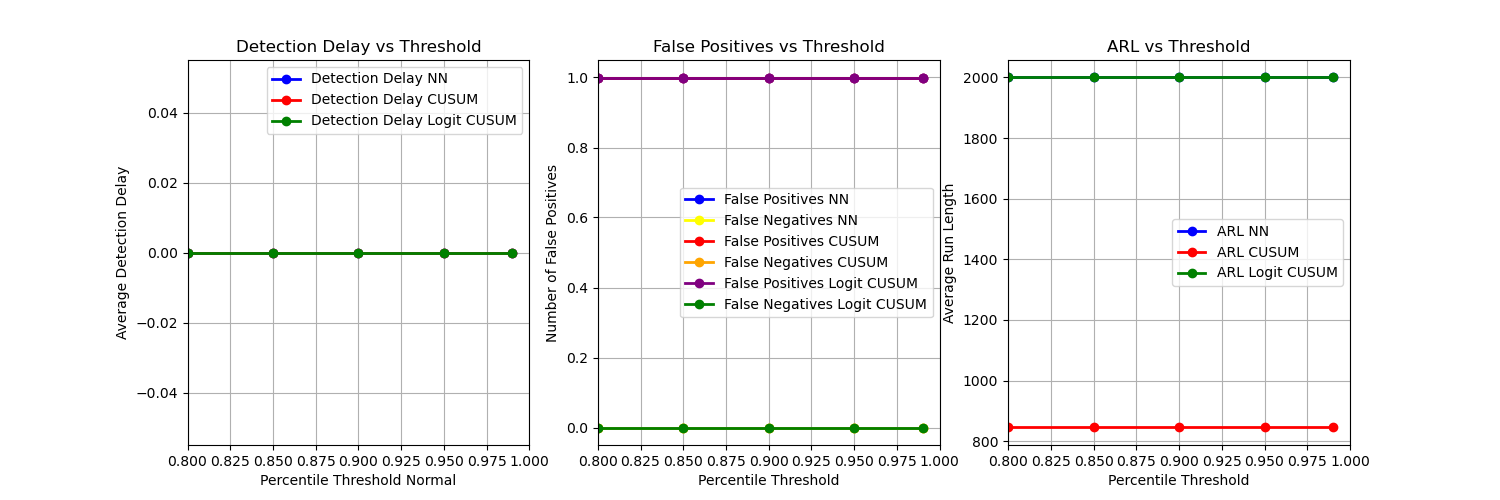
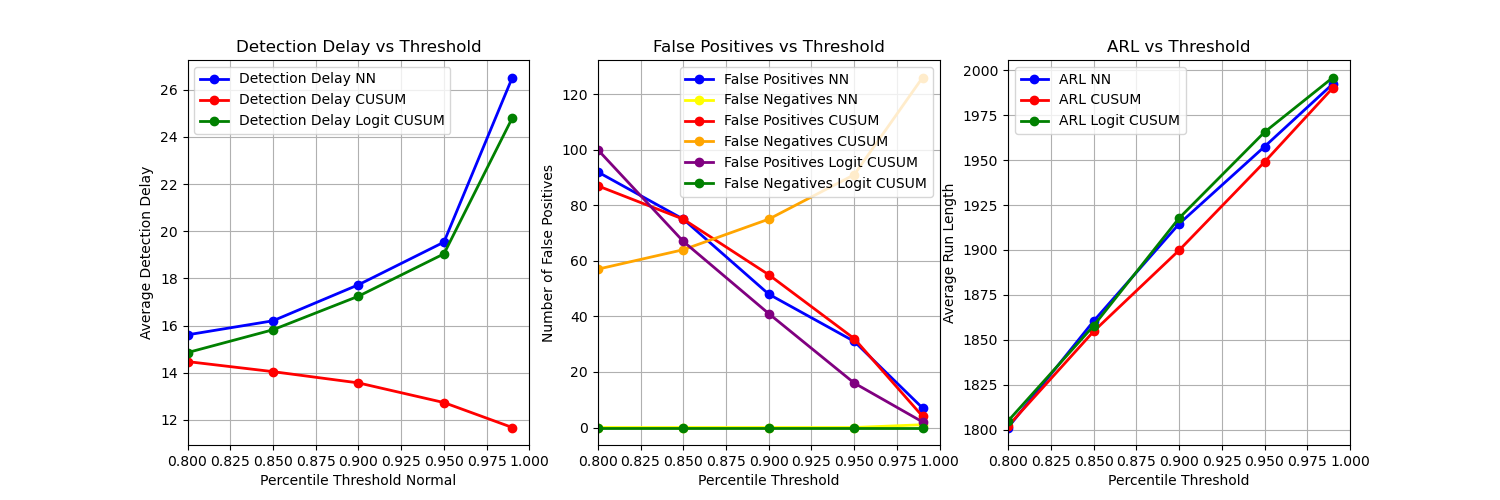
commented and double checked

diff --git a/scripts/Scriptstocheck/simulatedthreshold_logitdiff_cusum_cauchy.py b/scripts/Scriptstocheck/simulatedthreshold_logitdiff_cusum_cauchy.py
@@ -10,7 +10,7 @@ begin_time = time()
 
 # Project path setup
 script_dir = os.path.dirname(os.path.abspath(__file__))
-project_root = os.path.abspath(os.path.join(script_dir, ".."))
+project_root = os.path.abspath(os.path.join(script_dir, "../.."))
 sys.path.append(project_root)
 
 from autocpd.utils import *
@@ -29,11 +29,11 @@ tau_bound = 2
 B_bound = np.array([0.25, 1.75])
 rhos = 0
 thresholds = [99999]
-scale = 0.5
+scale = 0.5 #cauchy skalering
 # Load model
 current_file = "traincpd"
-model_name = "n100N700m198l10cpd"
-logdir = Path("tensorboard_logs", f"traincpdscale{scale}")
+model_name = "n100N700m198l10cpd" #dypere modell
+logdir = Path("tensorboard_logs", f"traincpdscale{scale}") #trent på cauchy data
 print(logdir)
 
 model_path = Path(logdir, model_name, "model.keras")
@@ -41,10 +41,7 @@ print("Loading model from:", model_path)
 model = tf.keras.models.load_model(model_path)
 np.random.seed(seed)
 tf.random.set_seed(seed)
-#get cusum threshold
-Cusum_th = np.load(Path(project_root, "Thresholds", f"Thresholds_seed2022.npy"))
-thresholds_opt = Cusum_th[:,3]
-threshold_opt = thresholds_opt[3]
+
 
 # Batched version of detection function
 def detect_change_in_stream_loc_batched(stream, model, window_length, threshold):
@@ -63,7 +60,7 @@ def detect_change_in_stream_loc_batched(stream, model, window_length, threshold)
 
 
 # Generate null data and compute threshold percentile
-data_null = GenDataMeanARH(num_repeats, stream_length, cp=None, mu=(mu_L, mu_L), coef=rhos, scale=scale)
+data_null = GenDataMeanARH(num_repeats, stream_length, cp=None, mu=(mu_L, mu_L), coef=rhos, scale=scale) #nulldata med cauchy, gå til utils for mer info
 num_streams = data_null.shape[0]
 max_probabilities = []
 max_probabilities_cusum = []
@@ -105,7 +102,7 @@ percentiles_logit_cusum = [percentile_80_logit_cusum,percentile_85_logit_cusum,p
 arl = np.zeros((len(percentiles),num_repeats))
 arl_cusum = np.zeros((len(percentiles),num_repeats))
 arl_logit_cusum = np.zeros((len(percentiles_logit_cusum),num_repeats))
-data = GenDataMeanARH(num_repeats, stream_length, cp=None, mu=(mu_L, mu_L),  coef=rhos, scale=scale)
+data = GenDataMeanARH(num_repeats, stream_length, cp=None, mu=(mu_L, mu_L),  coef=rhos, scale=scale) #nulldata med cauchy
 num_streams = data.shape[0]
 for idx, percentile in enumerate(percentiles):
     for i in range(num_streams):
@@ -136,16 +133,16 @@ arl = np.mean(arl,axis=1)
 arl_logit_cusum = np.mean(arl_logit_cusum,axis=1)
 print(f"arl_logit_cusum: {arl_logit_cusum}")
 print(f"arl_cusum: {arl_cusum}")
-result_alt =  DataGenAlternative(
+result_alt =  DataGenAlternative( #data med changepoint og cauchy
                 N_sub=num_repeats,
                 B=B_val,
                 mu_L=mu_L,
                 n=stream_length,
-                ARcoef=rhos,
+                ARcoef=rhos, #rho er 0
                 tau_bound=tau_bound,
                 B_bound=B_bound,
-                ar_model="ARH",
-                scale=scale,
+                ar_model="ARH", #
+                scale=scale, #cauchy
                 sigma=sigma
             )
 data_alt = result_alt["data"]     

diff --git a/scripts/Scriptstocheck/simulatedthreshold_logitdiff_cusum_rho.py b/scripts/Scriptstocheck/simulatedthreshold_logitdiff_cusum_rho.py
@@ -10,7 +10,7 @@ begin_time = time()
 
 # Project path setup
 script_dir = os.path.dirname(os.path.abspath(__file__))
-project_root = os.path.abspath(os.path.join(script_dir, ".."))
+project_root = os.path.abspath(os.path.join(script_dir, "../.."))
 sys.path.append(project_root)
 
 from autocpd.utils import *
@@ -32,8 +32,8 @@ thresholds = [99999]
 scale = 0
 # Load model
 current_file = "traincpd"
-model_name = "n100N700m198l10"
-logdir = Path("tensorboard_logs", f"train_rho{rhos}")
+model_name = "n100N700m198l10" #bruker en dypere modell 
+logdir = Path("tensorboard_logs", f"train_rho{rhos}") #trent på rho 0.7 data
 print(logdir)
 
 model_path = Path(logdir, model_name, "model.keras")
@@ -41,10 +41,7 @@ print("Loading model from:", model_path)
 model = tf.keras.models.load_model(model_path)
 np.random.seed(seed)
 tf.random.set_seed(seed)
-#get cusum threshold
-Cusum_th = np.load(Path(project_root, "Thresholds", f"Thresholds_seed2022.npy"))
-thresholds_opt = Cusum_th[:,3]
-threshold_opt = thresholds_opt[3]
+
 
 # Batched version of detection function
 def detect_change_in_stream_loc_batched(stream, model, window_length, threshold):
@@ -63,7 +60,7 @@ def detect_change_in_stream_loc_batched(stream, model, window_length, threshold)
 
 
 # Generate null data and compute threshold percentile
-data_null = GenDataMeanAR(num_repeats, stream_length, cp=None, mu=(mu_L, mu_L), sigma=sigma, coef=rhos)
+data_null = GenDataMeanAR(num_repeats, stream_length, cp=None, mu=(mu_L, mu_L), sigma=sigma, coef=rhos) #data med autokorrelasjon
 num_streams = data_null.shape[0]
 max_probabilities = []
 max_probabilities_cusum = []
@@ -105,7 +102,7 @@ percentiles_logit_cusum = [percentile_80_logit_cusum,percentile_85_logit_cusum,p
 arl = np.zeros((len(percentiles),num_repeats))
 arl_cusum = np.zeros((len(percentiles),num_repeats))
 arl_logit_cusum = np.zeros((len(percentiles_logit_cusum),num_repeats))
-data = GenDataMeanAR(num_repeats, stream_length, cp=None, mu=(mu_L, mu_L), sigma=sigma, coef=rhos)
+data = GenDataMeanAR(num_repeats, stream_length, cp=None, mu=(mu_L, mu_L), sigma=sigma, coef=rhos) #data med autokorrelasjon
 num_streams = data.shape[0]
 for idx, percentile in enumerate(percentiles):
     for i in range(num_streams):
@@ -135,15 +132,15 @@ arl = np.mean(arl,axis=1)
 arl_logit_cusum = np.mean(arl_logit_cusum,axis=1)
 print(f"arl_logit_cusum: {arl_logit_cusum}")
 print(f"arl_cusum: {arl_cusum}")
-result_alt =  DataGenAlternative(
+result_alt =  DataGenAlternative( #data med changepoint og autokorrelasjon
                 N_sub=num_repeats,
                 B=B_val,
                 mu_L=mu_L,
                 n=stream_length,
-                ARcoef=rhos,
+                ARcoef=rhos, #autokorrelasjon verdi
                 tau_bound=tau_bound,
                 B_bound=B_bound,
-                ar_model="AR0",
+                ar_model="AR0",#autokorrelasjon ar0
                 sigma=sigma
             )
 data_alt = result_alt["data"]     

diff --git a/scripts/Scriptstocheck/testsimulatedwithcusum.py b/scripts/Scriptstocheck/testsimulatedwithcusum.py
@@ -10,7 +10,7 @@ begin_time = time()
 
 # Project path setup
 script_dir = os.path.dirname(os.path.abspath(__file__))
-project_root = os.path.abspath(os.path.join(script_dir, ".."))
+project_root = os.path.abspath(os.path.join(script_dir, "../.."))
 sys.path.append(project_root)
 
 from autocpd.utils import *
@@ -32,7 +32,7 @@ thresholds = [99999]
 
 # Load model
 current_file = "train"
-model_name = "n100N600m24l5" #modell navn fra tensorboard, "vindu,antall serier trent på, bredde på NN, layers"
+model_name = "n100N400m24l5" #modell navn fra tensorboard, "vindu,antall serier trent på, bredde på NN, layers"
 logdir = Path("tensorboard_logs", f"{current_file}") 
 model_path = Path(logdir, model_name, "model.keras") #mappen
 print("Loading model from:", model_path)
@@ -49,7 +49,6 @@ def detect_change_in_stream_loc_batched(stream, model, window_length, threshold)
     logits = model.predict(windows, verbose=0) #finner en prediction for hvert av vinduene
     probs = tf.nn.softmax(logits, axis=1).numpy()[:, 1] #sannynlighet for at det finnes et changepoint i vinduet
     detection_idx = np.argmax(probs > threshold) #finner den første changepointen, hvis det ikke er noen over threshold returneres 0
-    print(detection_idx)
     if probs[detection_idx] > threshold: #hvis sannsynligheten er større enn threshold
         detection_time = detection_idx + window_length #changepoint er siste punkt i vinduet
     else:

diff --git a/scripts/runbatchedpar.py b/scripts/runbatchedpar.py
@@ -14,13 +14,11 @@ sys.path.append(project_root)
 
 from autocpd.utils import DataGenAlternative, GenDataMean
 
-# TensorFlow threading
+
 tf.config.threading.set_intra_op_parallelism_threads(8)
 tf.config.threading.set_inter_op_parallelism_threads(8)
 
-# -----------------
-# Parameters
-# -----------------
+
 window_length = 100
 num_repeat = 100
 stream_lengths = [1000, 2000, 3000, 5000, 10000, 20000, 50000, 100000]
@@ -34,9 +32,7 @@ B_bound = np.array([0.25, 1.75])
 rhos = 0
 alpha = 0.05
 
-# -----------------
-# Load model
-# -----------------
+
 current_file = "traincpd"
 model_name = "n100N400m24l1cpd"
 logdir = Path("tensorboard_logs", current_file)
@@ -44,9 +40,7 @@ model_path = Path(logdir, model_name, "model.keras")
 print("Loading model from:", model_path)
 model = tf.keras.models.load_model(model_path)
 
-# -----------------
-# Batched detection function
-# -----------------
+
 def detect_change_in_stream_batched(stream, model, window_length, k, threshold):
     num_windows = len(stream) - window_length + 1
     windows = np.array([stream[i:i+window_length] for i in range(num_windows)])
@@ -66,9 +60,7 @@ def detect_change_in_stream_batched(stream, model, window_length, k, threshold):
             consecutive = 0
     return 0, []
 
-# -----------------
-# Main evaluation loop
-# -----------------
+
 N_alt = num_repeat
 N_null = num_repeat
 

diff --git a/scripts/usedscripts/predictprob.py b/scripts/usedscripts/predictprob.py
@@ -117,20 +117,16 @@ def detect_change_in_stream_loc(stream, model, window_length, k,threshold, runs)
 
         else:
             consecutive_changes = 0
-            i += 1
-        
-              
+            i += 1                 
     return detected_change, detected_change_locs
 
 run_length = np.zeros((num_streams,len(thresholds)))
 detection_delay = np.zeros((num_streams,len(thresholds)))
 for i in range(num_streams):
     for j, threshold in enumerate(thresholds):
-   
         data = data_all[i]
         detected_change, detected_change_locs = detect_change_in_stream_loc(data, model, window_length, k=1, threshold=threshold,runs=i)
         print(i)
-  
         if detected_change_locs == []:
             run_length[i, j] = stream_length
             #detection_delay[i, j] = 0
